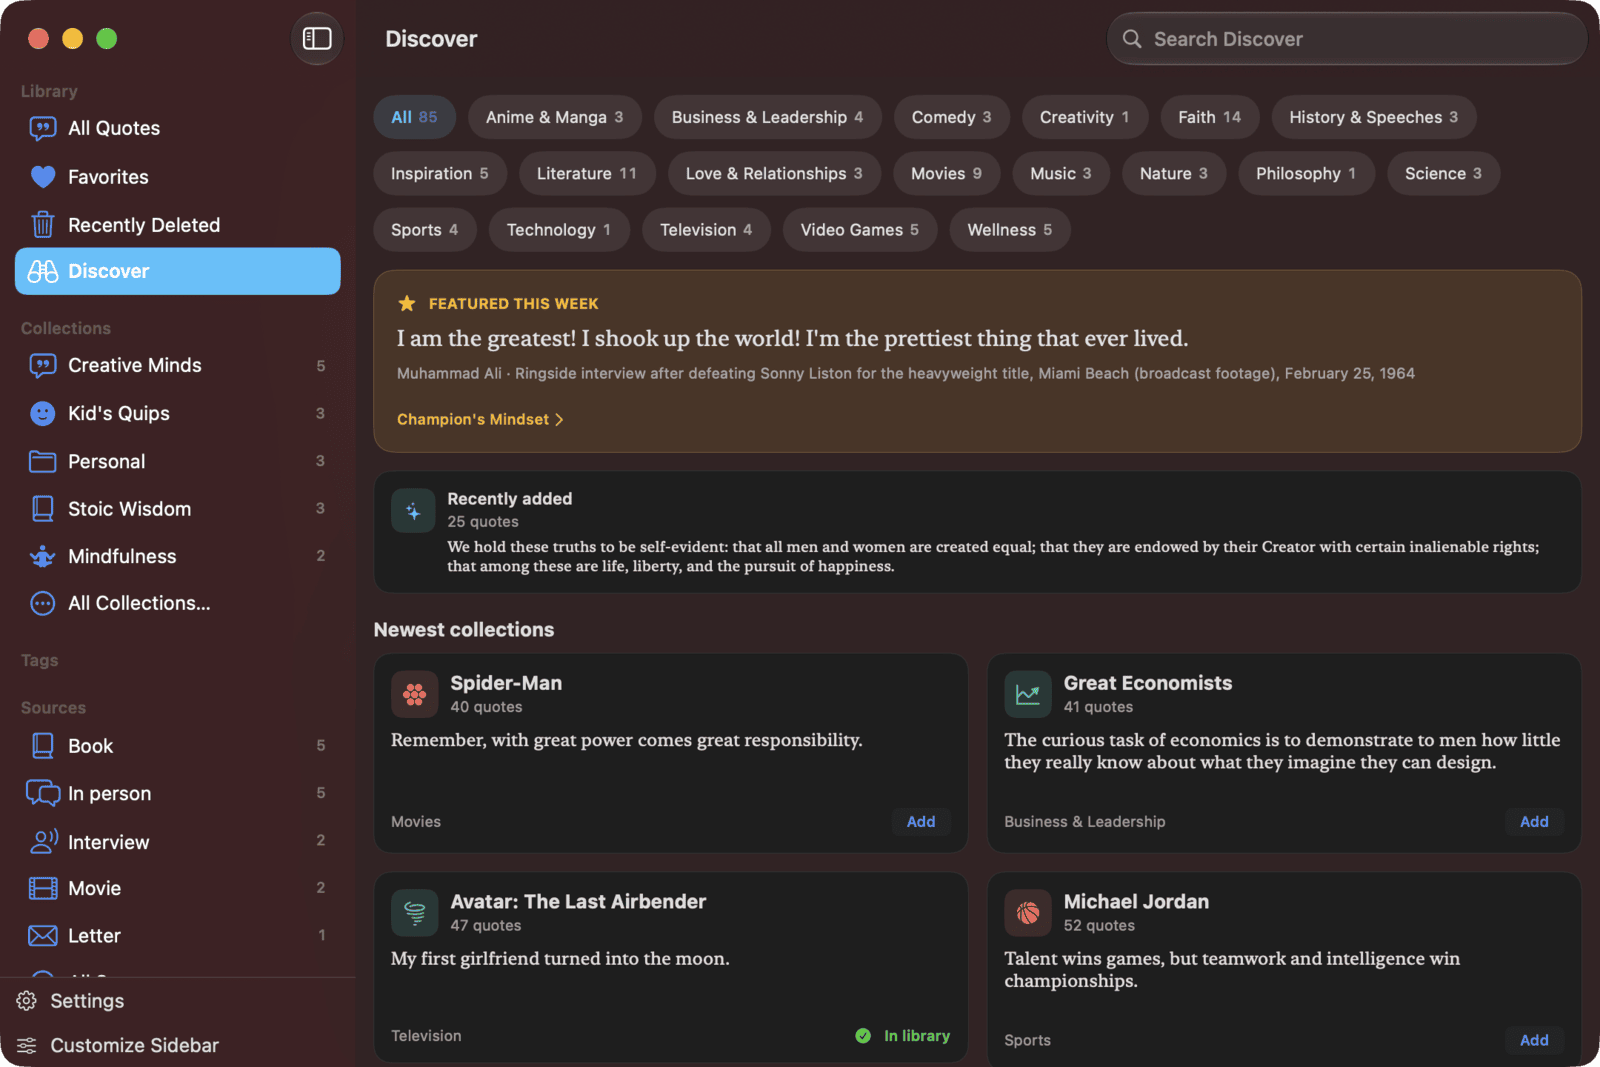
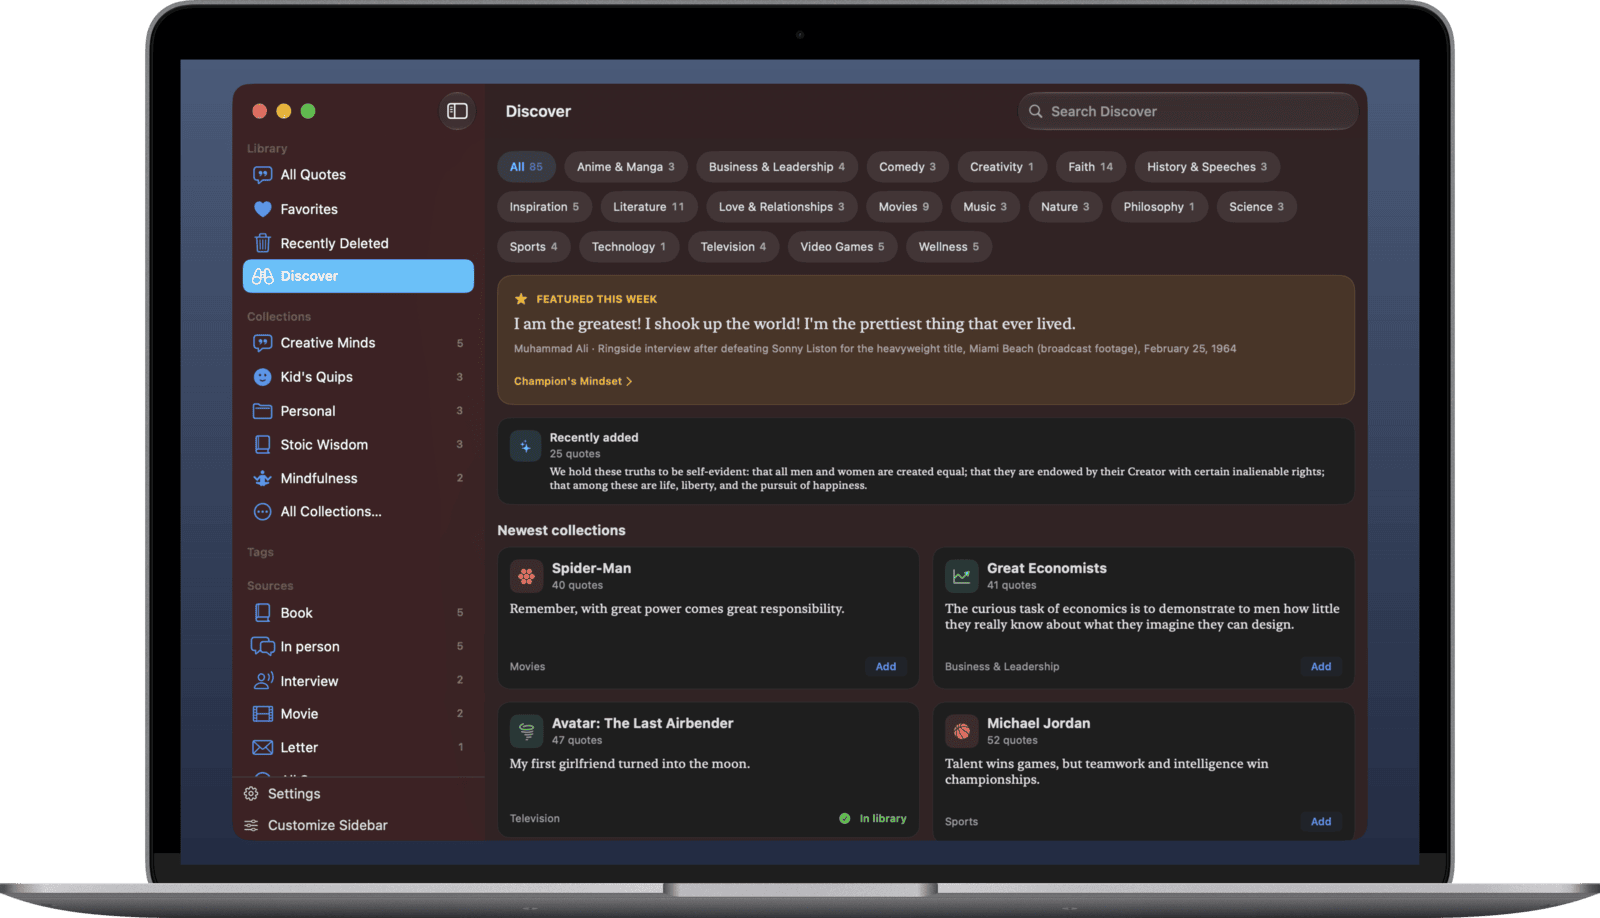
feat: Publish the Mac screenshots in a MacBook frame
The Mac shots were bare window captures with the rounded corner and
shadow faked in CSS. They now sit in a MacBook Air bezel, composited by
bin/mac-screenshot from the same pinned frameit frame set the iPhone and
iPad bezels come from — frameit itself declines to frame a Mac, so it
does the composite directly. All three screens now publish at one size
(1600x918) despite being captured at three different window sizes.

That makes every platform framed, so .is-unframed is nobody's rule today.
It stays as the contract for the next platform that declares frame:false,
with a comment saying so rather than claiming the Mac needs it.

is-mac widths go 300/460/580 -> 340/520/660. The correction is bigger
than the iPad's because a Mac screenshot is a window on a desktop rather
than a full-screen shot: between the bezel and the desktop margin only
62-73% of the image is app, against the iPad's 93%. Matching the old
on-screen size exactly would want ~800px, too wide for the slot, so these
recover most of it — 660px of image is about 480px of window, against
580px before — and leave the Mac at 379px tall beside the iPad's 394px,
so the row still reads as one set.

diff --git a/css/styles.css b/css/styles.css
@@ -568,12 +568,14 @@ a {
     margin-bottom: 0.75rem;
 }
 
-/* Mac shots ship without a device bezel — frameit refuses to draw one, and its
-   Mac mode composites onto a background instead — so the rounded corner and
-   shadow a bezel would have supplied come from here instead. Applied per the
-   manifest's per-platform "frame" flag, so iPhone and iPad (both framed) never
-   get it: their PNG's own bezel is already rounded, and a second radius would
-   clip its corners off. */
+/* The rounded corner and shadow a device bezel would have supplied, for a
+   platform whose PNGs arrive bare. Applied per the manifest's per-platform
+   "frame" flag: a framed PNG must never get it, because its own bezel is
+   already rounded and a second radius clips the corners off.
+   No platform declares frame:false today — iPhone and iPad are framed by
+   frameit, and the Mac by bin/mac-screenshot compositing the MacBook bezel
+   itself — so this is the contract for the next one that does, not dead code
+   for the current three. */
 .gallery-screenshot.is-unframed {
     border-radius: 12px;
     box-shadow: var(--shadow-lg);
@@ -591,8 +593,16 @@ a {
     width: 300px;
 }
 
+/* The Mac numbers carry a bigger correction than the iPad's. Both PNGs gained a
+   bezel, but a Mac screenshot is a *window* on a desktop rather than a
+   full-screen shot, so between the bezel and the desktop margin only about 62-73%
+   of the image is app — against the iPad's 93%. Matching the old on-screen UI
+   size exactly would want ~800px, too wide for the slot, so these recover most
+   of it and stop: 660px of image is about 480px of window, against 580px before.
+   It also leaves the Mac (379px tall) and the iPad (394px) close enough that the
+   row still reads as one set. */
 .gallery-screenshot.is-mac {
-    width: 300px;
+    width: 340px;
 }
 
 @media (min-width: 768px) {
@@ -609,7 +619,7 @@ a {
     }
 
     .gallery-screenshot.is-mac {
-        width: 460px;
+        width: 520px;
     }
 }
 
@@ -623,7 +633,7 @@ a {
     }
 
     .gallery-screenshot.is-mac {
-        width: 580px;
+        width: 660px;
     }
 }
 
